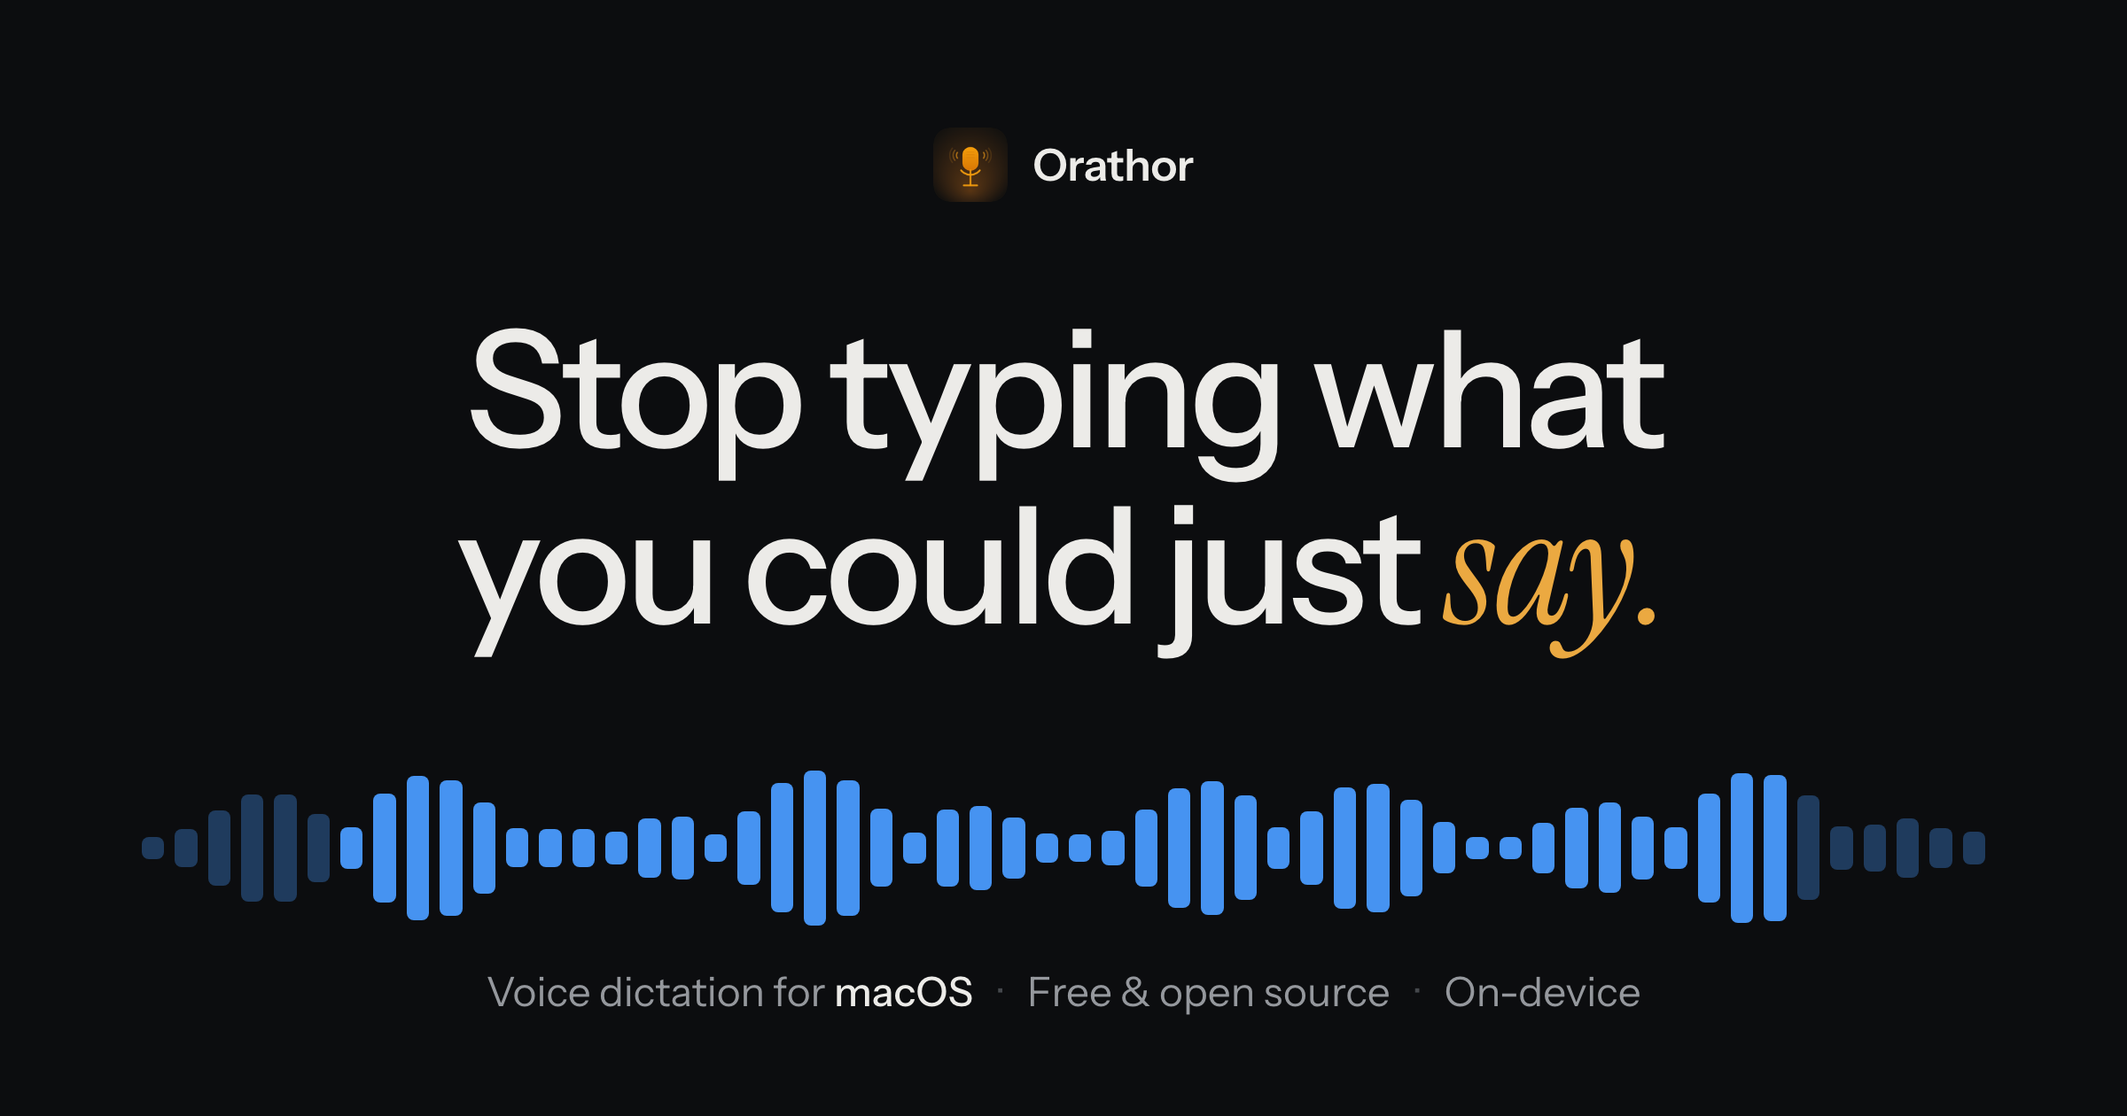
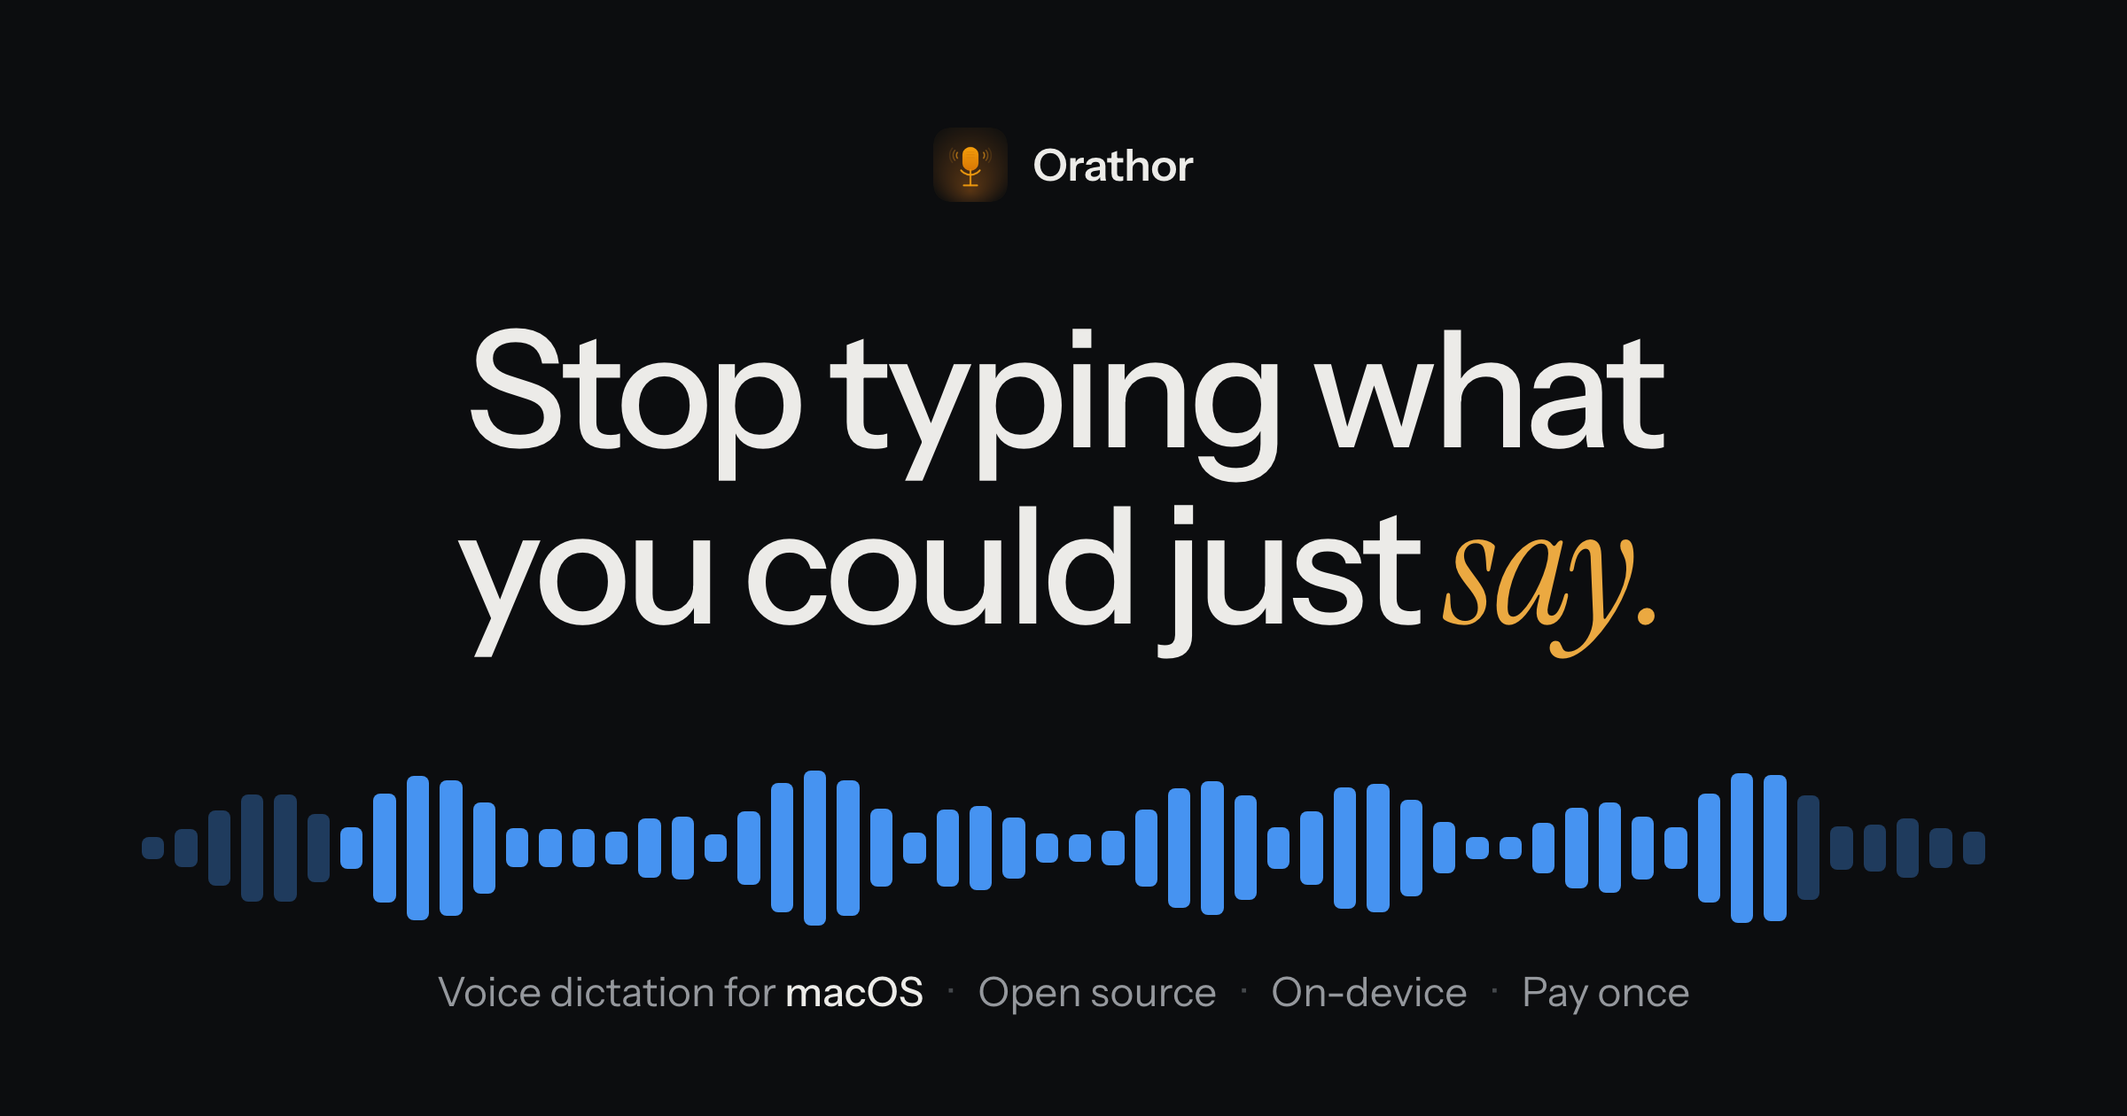
misc

Changed region(s): [[0.2188, 0.8667, 0.7812, 0.9286]]

diff --git a/landing/index.html b/landing/index.html
@@ -4,34 +4,35 @@
 <meta charset="UTF-8">
 <meta name="viewport" content="width=device-width, initial-scale=1.0">
 <title>Orathor | Voice dictation for macOS that just works</title>
-<meta name="description" content="Orathor is a free, open-source voice dictation app for macOS. Press a shortcut, speak, and your words appear wherever your cursor is. Processing happens on your Mac.">
+<meta name="description" content="Orathor is an open-source voice dictation app for macOS. Press a shortcut, speak, and your words appear wherever your cursor is. Free 7-day trial, then $29 once.">
 <meta property="og:type" content="website">
+<meta property="og:url" content="https://orathor.com/">
 <meta property="og:title" content="Orathor | Voice dictation for macOS that just works">
-<meta property="og:description" content="Free, open-source voice dictation for macOS. Press a shortcut, speak, and your words appear wherever your cursor is.">
-<meta property="og:image" content="https://ORATHOR-DOMAIN-HERE/og.png">
+<meta property="og:description" content="Open-source voice dictation for macOS. Press a shortcut, speak, and your words appear wherever your cursor is. Free 7-day trial, then $29 once.">
+<meta property="og:image" content="https://orathor.com/og.png">
 <meta property="og:image:width" content="2400">
 <meta property="og:image:height" content="1260">
 <meta name="twitter:card" content="summary_large_image">
 <meta name="twitter:title" content="Orathor | Voice dictation for macOS that just works">
-<meta name="twitter:description" content="Free, open-source voice dictation for macOS. Press a shortcut, speak, and your words appear wherever your cursor is.">
-<meta name="twitter:image" content="https://ORATHOR-DOMAIN-HERE/og.png">
+<meta name="twitter:description" content="Open-source voice dictation for macOS. Press a shortcut, speak, and your words appear wherever your cursor is. Free 7-day trial, then $29 once.">
+<meta name="twitter:image" content="https://orathor.com/og.png">
 <link rel="icon" type="image/png" href="favicon.png">
 <script type="application/ld+json">
 {
   "@context": "https://schema.org",
   "@type": "SoftwareApplication",
   "name": "Orathor",
-  "description": "Free, open-source voice dictation for macOS. Press a shortcut, speak, and your words appear wherever your cursor is. Processing happens on your Mac.",
-  "url": "https://ORATHOR-DOMAIN-HERE/",
-  "image": "https://ORATHOR-DOMAIN-HERE/og.png",
+  "description": "Open-source voice dictation for macOS. Press a shortcut, speak, and your words appear wherever your cursor is. Processing happens on your Mac.",
+  "url": "https://orathor.com/",
+  "image": "https://orathor.com/og.png",
   "applicationCategory": "UtilitiesApplication",
   "operatingSystem": "macOS 26.0 or later",
   "offers": {
     "@type": "Offer",
-    "price": "0",
-    "priceCurrency": "USD"
+    "price": "29",
+    "priceCurrency": "USD",
+    "url": "https://buy.polar.sh/polar_cl_IyLb0ACgEiWcPIn7Kqf2rQZ1PlasEMCcP4XEi2VMCbE"
   },
-  "isAccessibleForFree": true,
   "downloadUrl": "https://github.com/JustinyAhin/Orathor/releases/latest",
   "license": "https://github.com/JustinyAhin/Orathor/blob/main/LICENSE",
   "author": {
@@ -40,6 +41,44 @@
     "url": "https://github.com/JustinyAhin"
   },
   "sameAs": ["https://github.com/JustinyAhin/Orathor"]
+}
+</script>
+<script type="application/ld+json">
+{
+  "@context": "https://schema.org",
+  "@type": "FAQPage",
+  "mainEntity": [
+    {
+      "@type": "Question",
+      "name": "Why pay when the code is free?",
+      "acceptedAnswer": { "@type": "Answer", "text": "You don't have to. Build it in Xcode and you get the full app with no trial and no key. The $29 buys a signed, notarized binary that updates itself, and it keeps the project maintained." }
+    },
+    {
+      "@type": "Question",
+      "name": "Does my audio ever leave my Mac?",
+      "acceptedAnswer": { "@type": "Answer", "text": "Not unless you tell it to. The default engine is Apple's on-device SpeechAnalyzer, and it works with wifi off. If you add a Deepgram or OpenAI key, audio for those sessions goes to that provider, and the app always shows which engine is active." }
+    },
+    {
+      "@type": "Question",
+      "name": "What happens when the trial ends?",
+      "acceptedAnswer": { "@type": "Answer", "text": "Dictation pauses until you enter a license key. Your history and settings stay where they are, and nothing gets deleted. If you'd rather not pay, build from source and keep going." }
+    },
+    {
+      "@type": "Question",
+      "name": "Is it a subscription?",
+      "acceptedAnswer": { "@type": "Answer", "text": "No. You pay $29 once and use it on three Macs, updates included." }
+    },
+    {
+      "@type": "Question",
+      "name": "Why does it need macOS 26?",
+      "acceptedAnswer": { "@type": "Answer", "text": "Orathor is built on SpeechAnalyzer and Foundation Models, the on-device speech and language APIs Apple shipped in macOS 26. They make fast, private dictation possible without bundling gigabytes of models." }
+    },
+    {
+      "@type": "Question",
+      "name": "Which languages does it support?",
+      "acceptedAnswer": { "@type": "Answer", "text": "Every language Apple ships an on-device model for. Orathor follows your system language by default and falls back to English when no local model exists. The cloud engines cover more languages if you need them." }
+    }
+  ]
 }
 </script>
 <link rel="preconnect" href="https://fonts.googleapis.com">
@@ -66,7 +105,7 @@
 
   * { margin: 0; padding: 0; box-sizing: border-box; }
 
-  html { scroll-behavior: smooth; }
+  html { scroll-behavior: smooth; interpolate-size: allow-keywords; }
   @media (prefers-reduced-motion: reduce) {
     html { scroll-behavior: auto; }
     *, *::before, *::after { animation-duration: 0.01ms !important; transition-duration: 0.01ms !important; }
@@ -188,8 +227,8 @@
     color: var(--text);
     font-weight: 400;
   }
-  .demo-body .word { opacity: 0; display: inline; animation: word-in 0.35s var(--ease-out) forwards; }
-  @keyframes word-in { from { opacity: 0; } to { opacity: 1; } }
+  .demo-body .inserted { display: inline; animation: insert-in 0.5s var(--ease-out); }
+  @keyframes insert-in { from { opacity: 0; transform: translateY(4px); } to { opacity: 1; transform: none; } }
   .caret {
     display: inline-block; width: 2px; height: 1.15em;
     background: var(--blue); vertical-align: text-bottom;
@@ -218,6 +257,8 @@
   }
   @keyframes wave-bob { from { height: 18%; opacity: 0.55; } to { height: var(--h, 80%); opacity: 1; } }
   .hud-time { font-size: 12.5px; color: var(--text-muted); font-variant-numeric: tabular-nums; min-width: 38px; }
+  .hud-live { font-size: 13px; color: var(--text); max-width: 320px; white-space: nowrap; overflow: hidden; }
+  .hud-live:empty { display: none; }
 
   /* shortcut ritual */
   .ritual {
@@ -365,6 +406,30 @@
     .app-bottom { grid-template-columns: 1fr; }
   }
 
+  /* ─── Pricing ─── */
+  .price-grid { margin-top: clamp(40px, 6vh, 64px); display: grid; grid-template-columns: 1fr 1fr; gap: 12px; align-items: stretch; }
+  .price-card {
+    background: var(--bg-raised);
+    border: 1px solid var(--border-subtle);
+    border-radius: 12px;
+    padding: 32px 32px 28px;
+    display: flex; flex-direction: column; gap: 22px;
+  }
+  .price-card.featured { border-color: var(--border); }
+  .price-head { display: flex; align-items: baseline; gap: 10px; }
+  .price-amount { font-size: 34px; font-weight: 500; letter-spacing: -0.02em; }
+  .price-meta { font-size: 14px; color: var(--text-faint); }
+  .price-name { font-size: 13px; font-weight: 500; color: var(--text-muted); }
+  .price-lines { display: grid; gap: 9px; font-size: 14.5px; color: var(--text-muted); }
+  .price-lines span { display: flex; gap: 10px; }
+  .price-lines span::before { content: ""; width: 5px; height: 5px; border-radius: 50%; background: var(--text-faint); flex: none; margin-top: 8px; }
+  .price-card.featured .price-lines span::before { background: var(--blue); }
+  .price-foot { margin-top: auto; display: grid; gap: 10px; justify-items: start; }
+  .price-note { font-size: 13px; color: var(--text-faint); }
+  .price-note a { color: var(--text-muted); border-bottom: 1px solid var(--border); }
+  .price-note a:hover { color: var(--text); }
+  @media (max-width: 700px) { .price-grid { grid-template-columns: 1fr; } }
+
   /* ─── Privacy pull quote ─── */
   .privacy { text-align: center; }
   .privacy blockquote {
@@ -378,6 +443,30 @@
   }
   .privacy blockquote .hl { color: var(--blue); }
   .privacy .footnote { margin-top: 26px; font-size: 15px; color: var(--text-muted); max-width: 50ch; margin-inline: auto; }
+
+  /* ─── FAQ ─── */
+  .faq { margin-top: clamp(36px, 5vh, 56px); max-width: 780px; border-top: 1px solid var(--border-subtle); }
+  .faq details { border-bottom: 1px solid var(--border-subtle); }
+  .faq summary {
+    display: flex; align-items: baseline; justify-content: space-between; gap: 20px;
+    padding: 19px 2px;
+    font-size: 15.5px; font-weight: 500;
+    cursor: pointer; list-style: none;
+    transition: color 0.2s;
+  }
+  .faq summary::-webkit-details-marker { display: none; }
+  .faq summary::after { content: "+"; color: var(--text-faint); font-size: 17px; font-weight: 400; flex: none; transition: transform 0.25s var(--ease-out); }
+  .faq details[open] summary::after { transform: rotate(45deg); }
+  .faq summary:hover { color: var(--text-muted); }
+  .faq details p { padding: 0 2px 20px; font-size: 15px; color: var(--text-muted); max-width: 62ch; }
+  .faq details::details-content {
+    block-size: 0;
+    overflow-y: clip;
+    transition: block-size 0.4s var(--ease-out), content-visibility 0.4s allow-discrete;
+  }
+  .faq details[open]::details-content { block-size: auto; }
+  .faq details p { opacity: 0; transform: translateY(-5px); transition: opacity 0.3s 0.1s, transform 0.3s 0.1s var(--ease-out); }
+  .faq details[open] p { opacity: 1; transform: none; }
 
   /* ─── CTA ─── */
   .cta {
@@ -409,7 +498,7 @@
     </a>
     <div class="nav-links">
       <a href="#features" class="hide-sm">Features</a>
-      <a href="#engines" class="hide-sm">Engines</a>
+      <a href="#pricing" class="hide-sm">Pricing</a>
       <a href="https://github.com/JustinyAhin/Orathor" class="hide-sm">GitHub</a>
       <a href="https://github.com/JustinyAhin/Orathor/releases/latest" class="btn btn-primary">Download</a>
     </div>
@@ -417,13 +506,13 @@
 </nav>
 
 <header class="wrap">
-  <div class="hero-eyebrow reveal in"><span class="dot"></span> Free &amp; open source · macOS 26+</div>
+  <div class="hero-eyebrow reveal in"><span class="dot"></span> Open source · Pay once · macOS 26+</div>
   <h1 class="reveal in" style="transition-delay: 0.08s">Speak it.<br><span class="serif">Author it.</span></h1>
   <p class="hero-sub reveal in" style="transition-delay: 0.16s">
     Orathor turns your voice into text anywhere on your Mac, in any app and any text field.
-    You think <span class="data">3 to 5×</span> faster than you type. Press a shortcut
-    and speak. Your words land in under <span class="data">500&nbsp;ms</span>, and the audio
-    <strong>never leaves your Mac</strong>.
+    You think <span class="data">3 to 5×</span> faster than you type. Hold a key and talk:
+    you watch the transcript appear live, and it lands at your cursor the moment you let go.
+    The audio <strong>never leaves your Mac</strong>.
   </p>
   <div class="hero-actions reveal in" style="transition-delay: 0.24s">
     <a href="https://github.com/JustinyAhin/Orathor/releases/latest" class="btn btn-primary btn-lg">
@@ -450,6 +539,7 @@
     <div class="hud" aria-hidden="true">
       <span class="hud-dot"></span>
       <span class="wave" id="wave"></span>
+      <span class="hud-live" id="hud-live"></span>
       <span class="hud-time" id="hud-time">0:00</span>
     </div>
   </div>
@@ -472,7 +562,7 @@
     <div class="feature-row reveal">
       <span class="feature-num">02</span>
       <span class="feature-title">Real-time</span>
-      <span class="feature-desc">Words appear <em>as you speak</em>, not after you stop. Orathor is built in Swift rather than Electron, so it launches instantly and barely touches the CPU.</span>
+      <span class="feature-desc">You watch your words appear <em>live in the overlay</em> while you talk, and the finished text drops in at your cursor when you release the key. Built in Swift rather than Electron, so it launches instantly and barely touches the CPU.</span>
     </div>
     <div class="feature-row reveal">
       <span class="feature-num">03</span>
@@ -641,9 +731,78 @@
   </div>
 </section>
 
+<section class="wrap" id="pricing">
+  <div class="section-kicker reveal">Pricing</div>
+  <h2 class="reveal">Pay once. Or build it <span class="serif">yourself.</span></h2>
+  <p class="section-sub reveal">The code is GPL-3.0 open source and free for everyone. The signed, ready-to-run app is one purchase, and it starts with a free week.</p>
+  <div class="price-grid">
+    <div class="price-card featured reveal">
+      <div>
+        <div class="price-name">The app</div>
+        <div class="price-head"><span class="price-amount">$29</span><span class="price-meta">once, no subscription</span></div>
+      </div>
+      <div class="price-lines">
+        <span>7-day free trial, no account needed</span>
+        <span>Use it on 3 Macs</span>
+        <span>Signed, notarized, automatic updates</span>
+        <span>Funds the open-source development</span>
+      </div>
+      <div class="price-foot">
+        <a href="https://buy.polar.sh/polar_cl_IyLb0ACgEiWcPIn7Kqf2rQZ1PlasEMCcP4XEi2VMCbE" class="btn btn-primary btn-lg">Buy Orathor</a>
+        <span class="price-note">Or <a href="https://github.com/JustinyAhin/Orathor/releases/latest">start the free trial</a> first.</span>
+      </div>
+    </div>
+    <div class="price-card reveal">
+      <div>
+        <div class="price-name">From source</div>
+        <div class="price-head"><span class="price-amount">Free</span><span class="price-meta">forever</span></div>
+      </div>
+      <div class="price-lines">
+        <span>Full on-device dictation, no trial, no key</span>
+        <span>Cloud engines with your own API keys</span>
+        <span>Build it in Xcode from the public repo</span>
+      </div>
+      <div class="price-foot">
+        <a href="https://github.com/JustinyAhin/Orathor" class="btn btn-ghost btn-lg">View the source</a>
+      </div>
+    </div>
+  </div>
+</section>
+
 <section class="wrap privacy">
   <blockquote class="reveal">"Your voice stays <span class="hl">on your Mac</span>, not on someone else's server."</blockquote>
   <p class="footnote reveal">On-device processing is the default, not a paid upgrade. And since Orathor is <a href="https://github.com/JustinyAhin/Orathor">open source</a>, you can read exactly what the app does with your audio.</p>
+</section>
+
+<section class="wrap" id="faq">
+  <div class="section-kicker reveal">Questions</div>
+  <h2 class="reveal">Asked, <span class="serif">answered.</span></h2>
+  <div class="faq reveal">
+    <details>
+      <summary>Why pay when the code is free?</summary>
+      <p>You don't have to. Build it in Xcode and you get the full app with no trial and no key. The $29 buys the part that's genuinely work to ship: a signed, notarized binary that updates itself. It's also what keeps the project maintained.</p>
+    </details>
+    <details>
+      <summary>Does my audio ever leave my Mac?</summary>
+      <p>Not unless you tell it to. The default engine is Apple's on-device SpeechAnalyzer, and it works with wifi off. If you add a Deepgram or OpenAI key, audio for those sessions goes to that provider, and the app always shows which engine is active.</p>
+    </details>
+    <details>
+      <summary>What happens when the trial ends?</summary>
+      <p>Dictation pauses until you enter a license key. Your history and settings stay where they are, and nothing gets deleted. If you'd rather not pay, build from source and keep going.</p>
+    </details>
+    <details>
+      <summary>Is it a subscription?</summary>
+      <p>No. You pay $29 once and use it on three Macs, updates included.</p>
+    </details>
+    <details>
+      <summary>Why does it need macOS 26?</summary>
+      <p>Orathor is built on SpeechAnalyzer and Foundation Models, the on-device speech and language APIs Apple shipped in macOS 26. They're what make fast, private dictation possible without bundling gigabytes of models. Supporting older systems would mean shipping a different, worse app.</p>
+    </details>
+    <details>
+      <summary>Which languages does it support?</summary>
+      <p>Every language Apple ships an on-device model for. Orathor follows your system language by default and falls back to English when no local model exists. The cloud engines cover more languages if you need them.</p>
+    </details>
+  </div>
 </section>
 
 <section class="wrap cta">
@@ -652,7 +811,7 @@
     <a href="https://github.com/JustinyAhin/Orathor/releases/latest" class="btn btn-primary btn-lg">Download for macOS</a>
     <a href="https://github.com/JustinyAhin/Orathor" class="btn btn-ghost btn-lg">View the source</a>
   </div>
-  <p class="hero-note reveal" style="transition-delay: 0.16s">Requires macOS 26 or later · Apple Silicon</p>
+  <p class="hero-note reveal" style="transition-delay: 0.16s">Free 7-day trial · $29 once, 3 Macs · macOS 26+, Apple Silicon</p>
 </section>
 
 <footer>
@@ -698,6 +857,7 @@
   ];
   const transcript = document.getElementById("transcript");
   const hudTime = document.getElementById("hud-time");
+  const hudLive = document.getElementById("hud-live");
   let phraseIdx = 0, startTime = 0;
 
   function tickClock() {
@@ -705,10 +865,13 @@
     hudTime.textContent = Math.floor(s / 60) + ":" + String(s % 60).padStart(2, "0");
   }
 
+  // Mirrors the real flow: the HUD shows the live transcript while you hold the
+  // key; the full text lands in the document when you release.
   async function playPhrase() {
     const words = phrases[phraseIdx].split(" ");
     phraseIdx = (phraseIdx + 1) % phrases.length;
     transcript.textContent = "";
+    hudLive.textContent = "";
     startTime = performance.now();
     const clock = setInterval(tickClock, 250);
 
@@ -716,14 +879,19 @@
       transcript.textContent = words.join(" ");
       await new Promise(r => setTimeout(r, 6000));
     } else {
+      let spoken = "";
       for (const w of words) {
-        const span = document.createElement("span");
-        span.className = "word";
-        span.textContent = w + " ";
-        transcript.appendChild(span);
+        spoken += (spoken ? " " : "") + w;
+        hudLive.textContent = spoken.length > 42 ? "…" + spoken.slice(-42) : spoken;
         await new Promise(r => setTimeout(r, 90 + Math.min(w.length * 22, 180)));
       }
-      await new Promise(r => setTimeout(r, 3200));
+      await new Promise(r => setTimeout(r, 400));
+      hudLive.textContent = "";
+      const span = document.createElement("span");
+      span.className = "inserted";
+      span.textContent = words.join(" ");
+      transcript.appendChild(span);
+      await new Promise(r => setTimeout(r, 3600));
     }
     clearInterval(clock);
     playPhrase();

diff --git a/landing/og-source.html b/landing/og-source.html
@@ -70,7 +70,7 @@
 
   <div class="wave" id="wave"></div>
 
-  <div class="foot">Voice dictation for <b>macOS</b><span class="sep">·</span>Free &amp; open source<span class="sep">·</span>On-device</div>
+  <div class="foot">Voice dictation for <b>macOS</b><span class="sep">·</span>Open source<span class="sep">·</span>On-device<span class="sep">·</span>Pay once</div>
 </div>
 <script>
   const wave = document.getElementById("wave");
